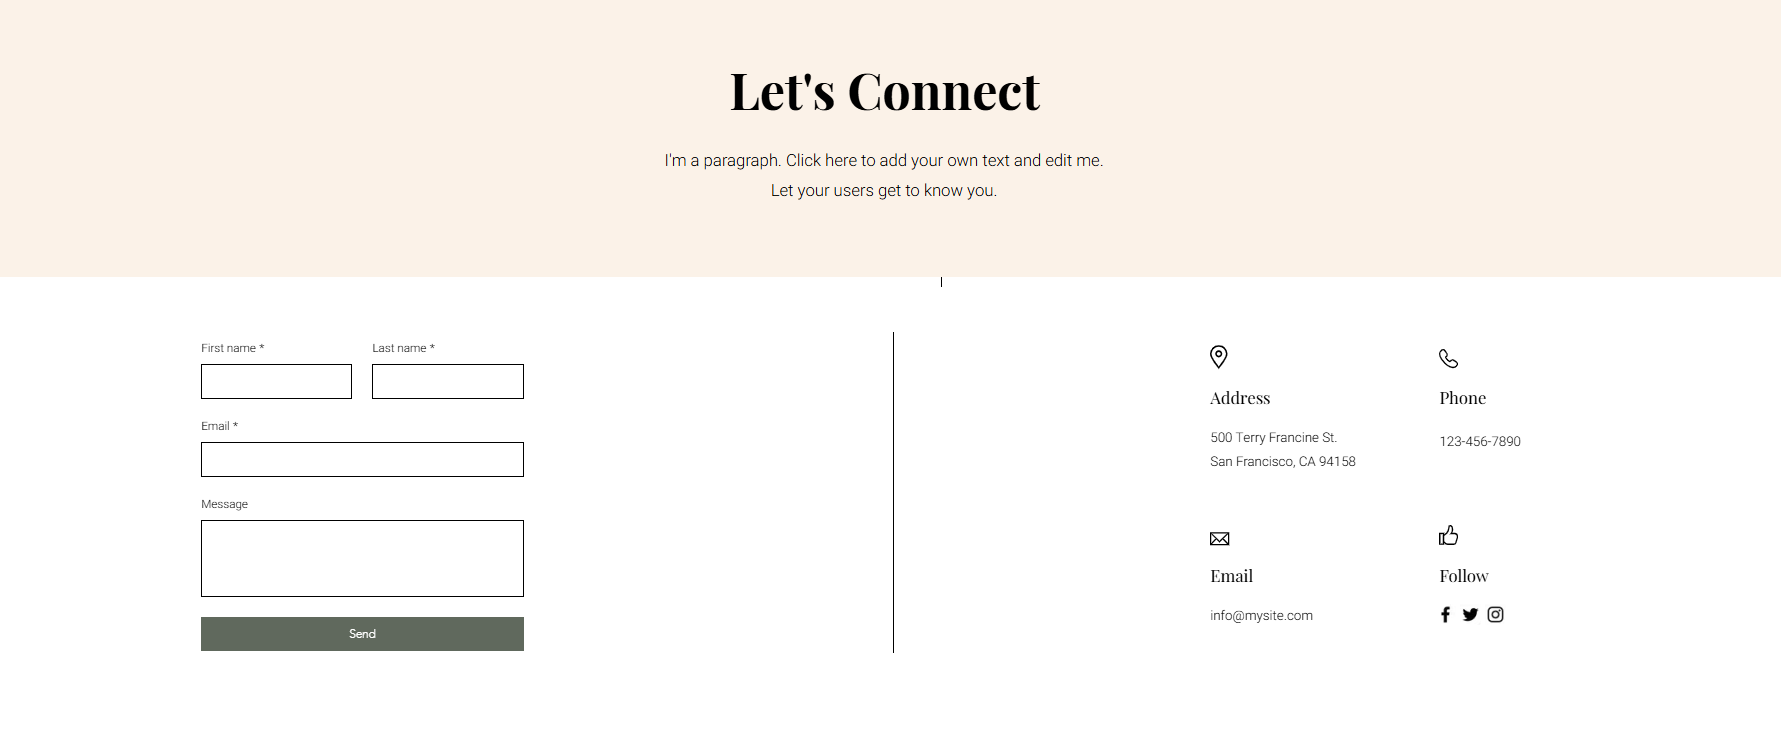
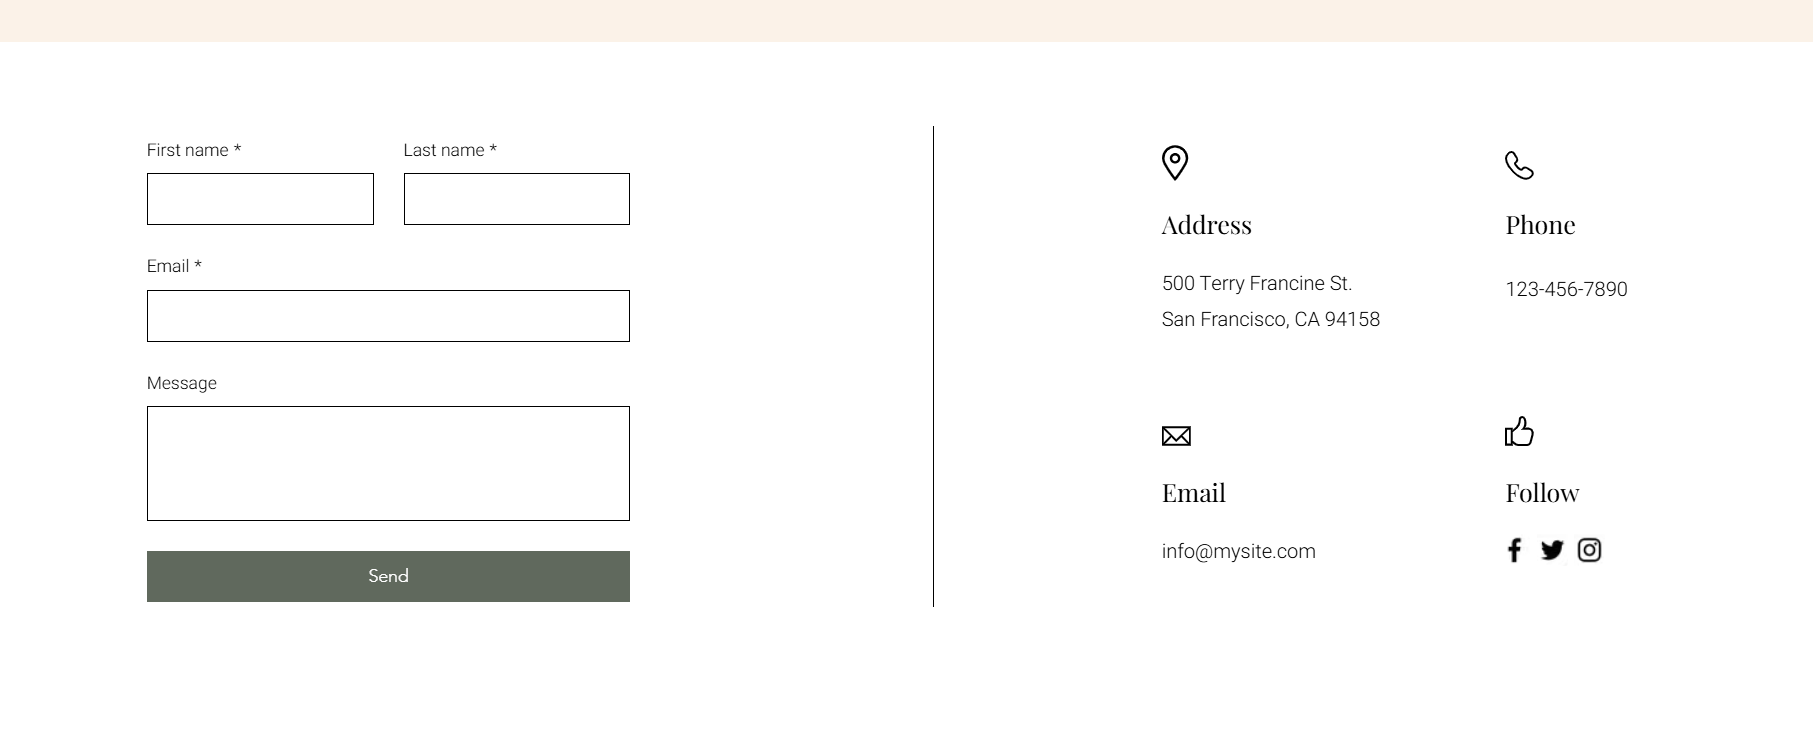
The contact page is done
Contact page is done.

diff --git a/src/pages/Contact.js b/src/pages/Contact.js
@@ -1,47 +1,127 @@
 import React from "react";
+import { FontAwesomeIcon } from "@fortawesome/react-fontawesome";
+// If you need icons, install @fortawesome/free-solid-svg-icons and @fortawesome/free-brands-svg-icons
+// Then import specific icons below. Example:
+import { faMapMarkerAlt, faPhone, faEnvelope } from "@fortawesome/free-solid-svg-icons";
+import { faFacebookF, faInstagram, faTwitter } from "@fortawesome/free-brands-svg-icons";
 
 function Contact() {
   return (
-    <div className="min-h-screen bg-gradient-to-r from-[#fbe7c6] to-[#ffe6a7] text-[#60462c] p-8">
-      <h1 className="text-6xl font-bold text-center mb-8 pt-20">Contact Us</h1>
-      <p className="text-center text-xl mb-10">
-        We’d love to hear from you! Reach out with any questions or feedback.
+    <div className="min-h-screen pt-20 px-6 bg-[#f5e6d3] text-gray-800">
+      {/* Title & Subheading */}
+      <h1 className="text-4xl font-bold text-center mb-2 pt-40">Let's Connect</h1>
+      <p className="text-center text-lg mb-10">
+        I'm a paragraph. Click here to add your own text and edit me.
+        Let your users get to know you.
       </p>
 
-      <div className="max-w-2xl mx-auto">
-        <form className="space-y-4">
-          <input
-            type="text"
-            placeholder="Your Name"
-            className="w-full p-3 border border-[#856746] rounded-lg"
-          />
-          <input
-            type="email"
-            placeholder="Your Email"
-            className="w-full p-3 border border-[#856746] rounded-lg"
-          />
-          <textarea
-            placeholder="Your Message"
-            className="w-full p-3 border border-[#856746] rounded-lg h-32"
-          ></textarea>
-          <button className="w-full p-3 bg-[#60462c] text-white rounded-lg hover:bg-[#856746] transition-all">
-            Send Message
-          </button>
-        </form>
-      </div>
+      {/* Two-Column Layout */}
+      <div className="max-w-6xl mx-auto grid grid-cols-1 md:grid-cols-[1fr_auto_1fr] gap-8 items-start">
+        {/* Left Column: Contact Form */}
+        <div>
+          <form className="space-y-4">
+            <div className="flex flex-col md:flex-row gap-4">
+              <div className="flex-1">
+                <label htmlFor="firstName" className="block text-sm font-medium mb-1">
+                  First name *
+                </label>
+                <input
+                  id="firstName"
+                  type="text"
+                  placeholder="First name *"
+                  className="w-full p-3 border border-gray-300 rounded"
+                />
+              </div>
+              <div className="flex-1">
+                <label htmlFor="lastName" className="block text-sm font-medium mb-1">
+                  Last name *
+                </label>
+                <input
+                  id="lastName"
+                  type="text"
+                  placeholder="Last name *"
+                  className="w-full p-3 border border-gray-300 rounded"
+                />
+              </div>
+            </div>
 
-      {/* New Catering Section */}
-      <section className="max-w-2xl mx-auto mt-12 p-6 bg-white bg-opacity-90 rounded-lg shadow-lg">
-        <h2 className="text-3xl font-bold text-center mb-4">Catering Services</h2>
-        <p className="text-center text-lg">
-          Planning an event? Let us bring our signature Himalayan flavors and cozy ambience
-          right to your doorstep. We cater for birthdays, meetings, weddings and more!
-        </p>
-      </section>
+            <div>
+              <label htmlFor="email" className="block text-sm font-medium mb-1">
+                Email *
+              </label>
+              <input
+                id="email"
+                type="email"
+                placeholder="Email *"
+                className="w-full p-3 border border-gray-300 rounded"
+              />
+            </div>
 
-      <div className="text-center mt-8">
-        <p className="text-lg">📍 123 Coffee Street, Himalayan City</p>
-        <p className="text-lg">📞 (123) 456-7890</p>
+            <div>
+              <label htmlFor="message" className="block text-sm font-medium mb-1">
+                Message
+              </label>
+              <textarea
+                id="message"
+                placeholder="Message"
+                className="w-full p-3 border border-gray-300 rounded h-32"
+              ></textarea>
+            </div>
+
+            <button className="w-full p-3 bg-[#596a64] text-white rounded hover:bg-[#46534f] transition-colors">
+              Send
+            </button>
+          </form>
+        </div>
+
+        {/* Vertical Divider (hidden on small screens) */}
+        <div className="hidden md:block w-1 bg-gray-300 h-full mx-auto"></div>
+
+        {/* Right Column: Contact Info */}
+        <div className="grid grid-rows-2 gap-8 text-center">
+          <div className="grid grid-cols-2 gap-4 items-center">
+            {/* Address */}
+            <div className="flex flex-col items-center gap-2">
+              <FontAwesomeIcon icon={faMapMarkerAlt} className="text-lg" />
+              <h3 className="text-md font-semibold">Address</h3>
+              <p className="text-sm">
+                500 Terry Francine St.
+                <br />
+                San Francisco, CA 94158
+              </p>
+            </div>
+            {/* Phone */}
+            <div className="flex flex-col items-center gap-2">
+              <FontAwesomeIcon icon={faPhone} className="text-lg" />
+              <h3 className="text-md font-semibold">Phone</h3>
+              <p className="text-sm">123-456-7890</p>
+            </div>
+          </div>
+          <div className="grid grid-cols-2 gap-4 items-center">
+            {/* Email */}
+            <div className="flex flex-col items-center gap-2">
+              <FontAwesomeIcon icon={faEnvelope} className="text-lg" />
+              <h3 className="text-md font-semibold">Email</h3>
+              <p className="text-sm">info@mysite.com</p>
+            </div>
+            {/* Follow */}
+            <div className="flex flex-col items-center gap-2">
+              <div className="text-lg">👍</div>
+              <h3 className="text-md font-semibold">Follow</h3>
+              <div className="flex justify-center gap-4 text-gray-600">
+                <a href="#" className="hover:text-gray-900" aria-label="Facebook">
+                  <FontAwesomeIcon icon={faFacebookF} />
+                </a>
+                <a href="#" className="hover:text-gray-900" aria-label="Instagram">
+                  <FontAwesomeIcon icon={faInstagram} />
+                </a>
+                <a href="#" className="hover:text-gray-900" aria-label="Twitter">
+                  <FontAwesomeIcon icon={faTwitter} />
+                </a>
+              </div>
+            </div>
+          </div>
+        </div>
       </div>
     </div>
   );
